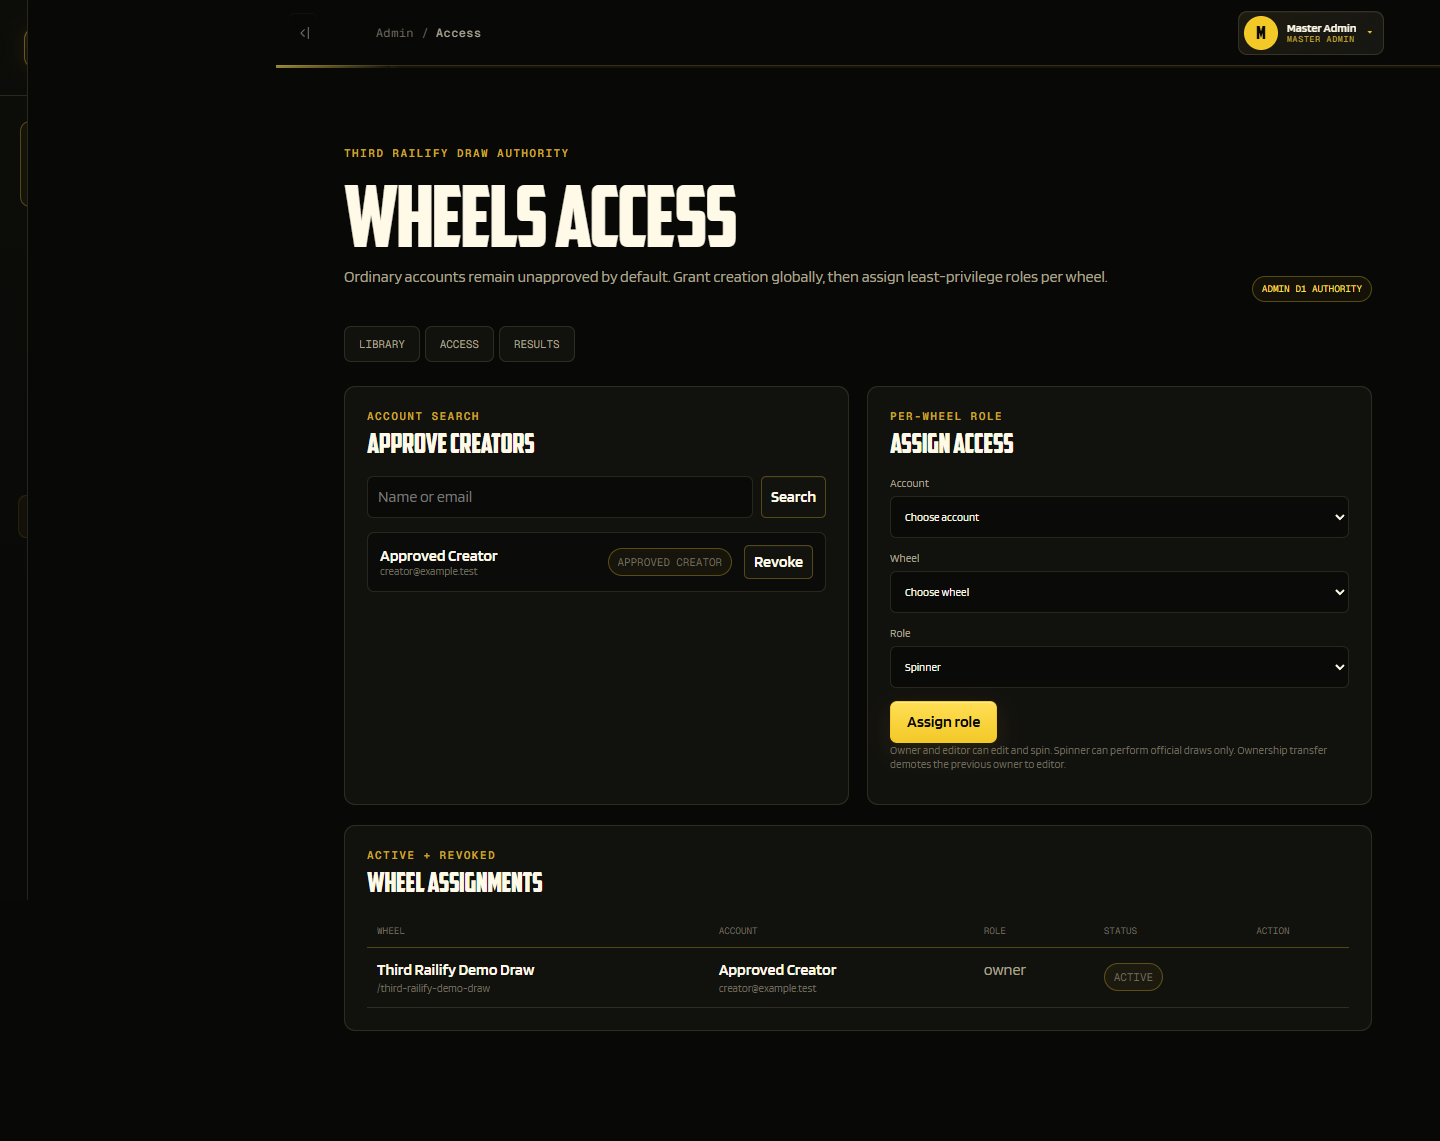
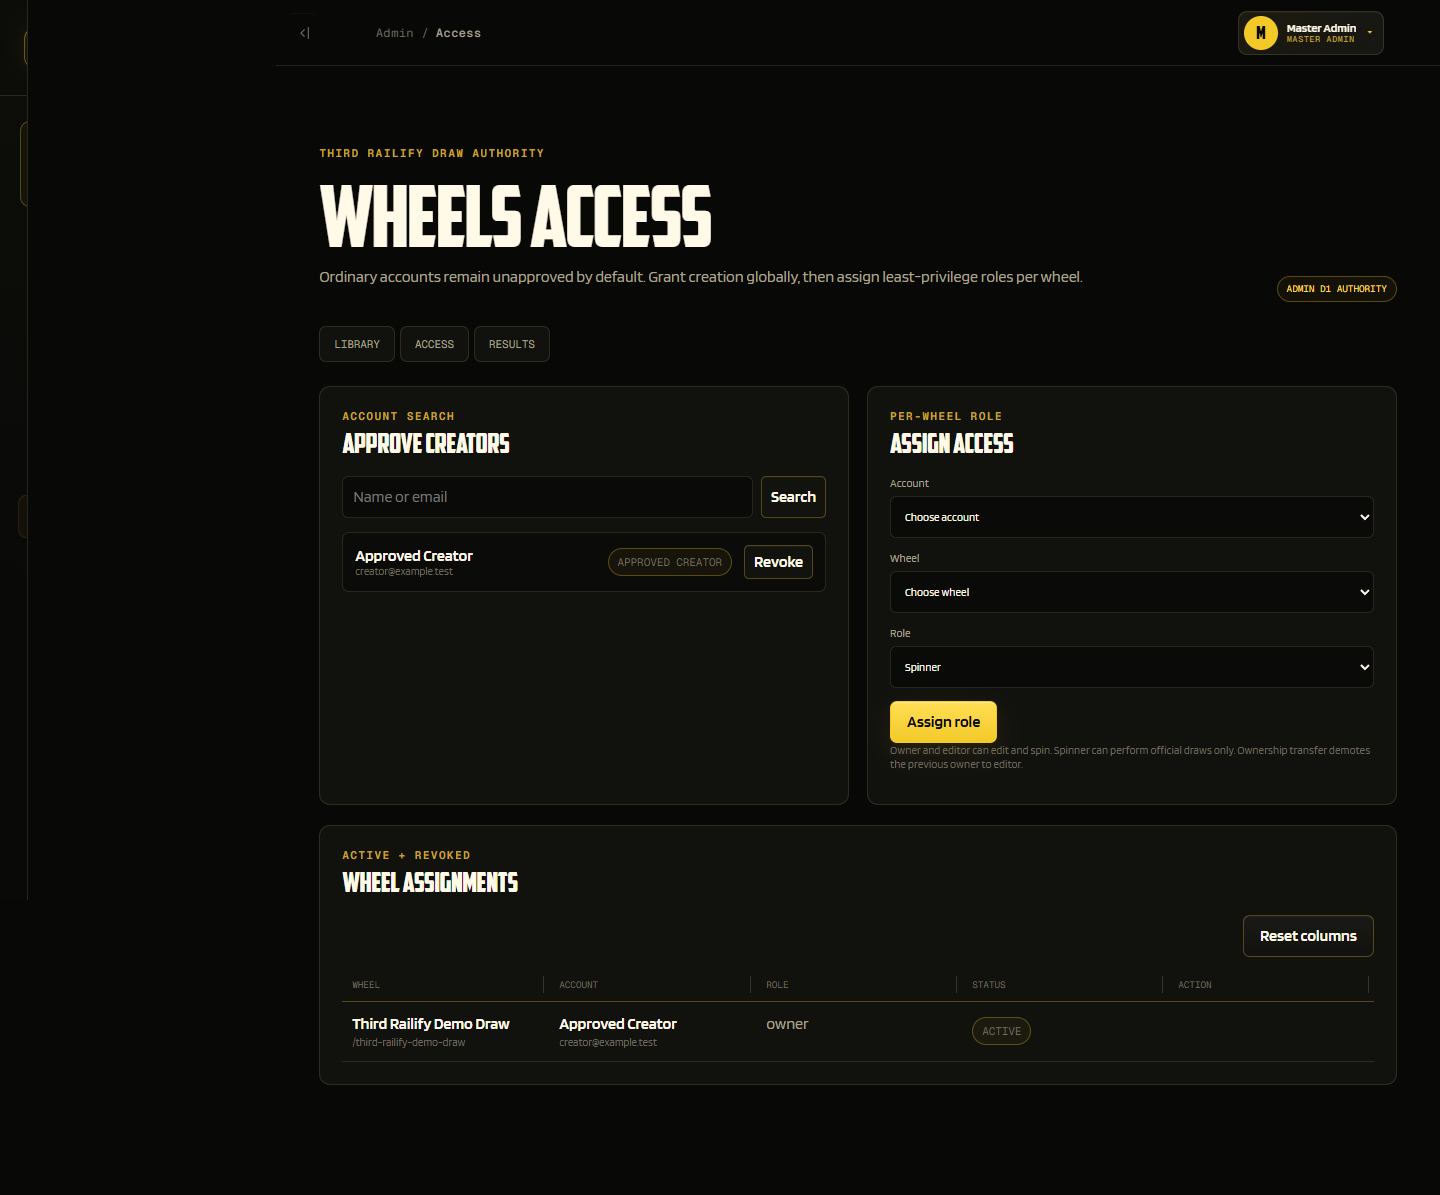
style(admin): widen the dashboard workspace
- increase the shared ThirdRailify Admin page-content maximum width so dashboard surfaces make substantially better use of the workspace available beside the persistent navigation rail
- retain a deliberate large-screen maximum and responsive horizontal gutters rather than stretching content edge-to-edge on ultrawide displays
- preserve specialised compact/modal layouts while applying the wider container consistently to normal Admin pages
- audit Customers, Products, Collections, Orders, Commerce, Watch, GOATS, Wheels, Users, Settings and other configured routes for over-stretching, table regressions and horizontal overflow
- add browser geometry coverage proving the normal page container is materially wider on 1920px-class displays while remaining bounded and responsive through tablet and mobile widths
- preserve authentication, APIs, D1/R2, commerce providers, Public pages, checkout gates and production-domain boundaries

diff --git a/src/styles/global.css b/src/styles/global.css
@@ -59,6 +59,8 @@
   --control-focus-ring: 0 0 0 3px rgba(243, 201, 40, .24);
   --sidebar-width: 276px;
   --sidebar-collapsed-width: 84px;
+  --admin-page-max: 1720px;
+  --admin-page-gutter: clamp(22px, 3vw, 52px);
   background: var(--bg);
   color: var(--ink);
 }
@@ -220,7 +222,7 @@ img { display: block; max-width: 100%; }
 @keyframes admin-shell-loader-indeterminate { from { left: -36%; } to { left: 100%; } }
 .icon-button { display: inline-grid; width: 42px; height: 42px; place-items: center; padding: 0; color: var(--ink); border: 1px solid var(--line); border-radius: 9px; background: var(--panel); cursor: pointer; }
 .menu-button { display: none; }
-.admin-main { width: min(1240px, 100%); margin: 0 auto; padding: clamp(42px, 6vw, 80px) clamp(22px, 5vw, 68px) 90px; }
+.admin-main { width: min(var(--admin-page-max), 100%); margin: 0 auto; padding: clamp(42px, 6vw, 80px) var(--admin-page-gutter) 90px; }
 
 .eyebrow { display: flex; align-items: center; gap: 9px; margin-bottom: 14px; color: var(--gold-soft); font-family: "Geist Mono", monospace; font-size: .69rem; font-weight: 600; letter-spacing: .13em; text-transform: uppercase; }
 .eyebrow > span { width: 24px; height: 1px; background: var(--gold); }

diff --git a/BUMP_NOTES.md b/BUMP_NOTES.md
@@ -1,5 +1,16 @@
 # Bump notes
 
+## 2026-08-30 - Wider Admin workspace
+
+CURRENT VER=0.1.0-alpha.0
+
+PENDING VER=0.1.0-alpha.0
+
+- Increased the single normal-page width authority from the hard-coded 1240px cap to `--admin-page-max: 1720px`, with a shared `clamp(22px, 3vw, 52px)` desktop/tablet gutter and the existing 17px phone gutter. The sidebar, top bar, modal/dialog widths, and intentionally capped reading copy are unchanged.
+- Audited every configured route at 1920, 1440, and 390 pixels, plus the shell at 1600, 1365, 1024, and 768 pixels. Focused Customers, Products, Overview, Payments, and Wheels browser fixtures confirm the wider tables, filters, metric grids, and management workspaces remain balanced without viewport overflow.
+- Added bounded browser geometry coverage for expanded/collapsed sidebar widths, usable content width, centring, ultrawide outer gutters, and the former narrow cap. No Public, API, auth, schema, D1/R2, provider, Wix, DNS, domain, payment, checkout, fulfilment, Wheels, GOATS, or Watch behavior changed.
+- Deployed the Admin-only build as `0dc65629-ad87-43ba-9e88-1997c8b11cf7` (`https://0dc65629.thirdrailify-admin.pages.dev`). Stable and immutable routes serve the same `index-Bu1ByXAn.css` and `index-CdVlQnNu.js` assets; the stable Customers fixture passed the full responsive geometry matrix.
+
 ## 2026-08-30 — Admin table overflow correction
 
 - Removed phantom horizontal scroll ranges from `/customers` and `/access`: default resizable-column widths now contract proportionally to the available table wrapper while retaining column minimums, and the final resize handle stays inside the table boundary. User-expanded columns still produce genuine horizontal scrolling when their stored width exceeds the wrapper.
